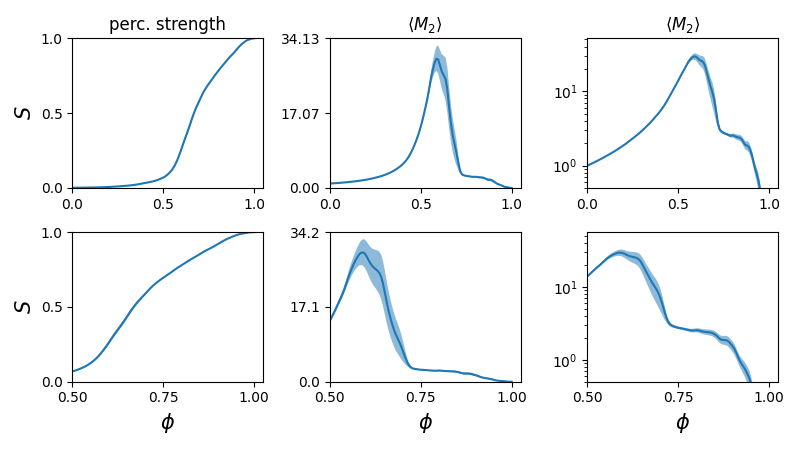
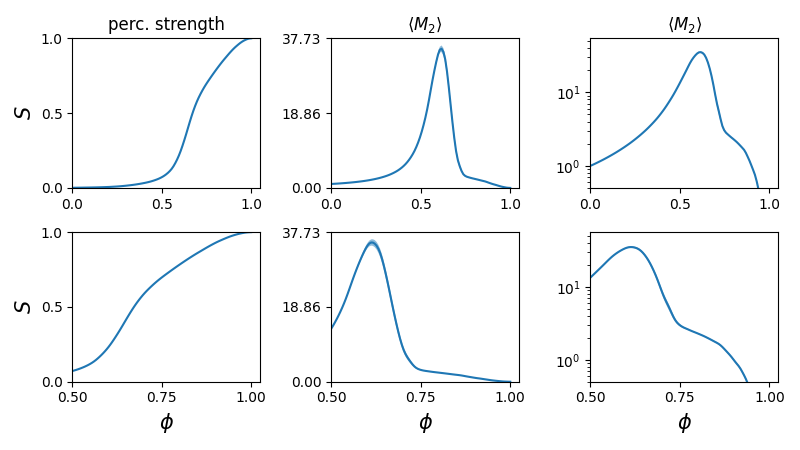
Upload percolation results for 1000 runs

diff --git a/Project/community_detection.py b/Project/community_detection.py
@@ -1,16 +1,16 @@
+import os
+
 import geopandas
 import igraph as ig
 import matplotlib.pyplot as plt
 import networkx as nx
 import networkx.algorithms.community as nx_comm
 import numpy as np
-import os
 import pandas as pd
 import seaborn as sns
 from contextily import add_basemap
 from igraph import Graph
 from networkx import MultiGraph
-from pprint import pprint
 
 
 def nx_com_to_pajek_file(G, comm_list, filepath):
@@ -36,11 +36,39 @@ def ig_com_to_pajek_file(comm_list, filepath):
 data_folder = "data"
 out_folder = "output"
 addition = 0.005
+tables_dir = os.path.join(out_folder, "tables")
+if not os.path.exists(tables_dir):
+    os.makedirs(tables_dir)
 
 g = Graph.Load(os.path.join(data_folder, "bus-bcn.net"), format="pajek")
+nx_g = nx.read_pajek(os.path.join(data_folder, "bus-bcn.net"))
+assert nx.number_of_selfloops(nx_g) == 0
 net_data = geopandas.read_file(os.path.join(data_folder, "raw", "parades_linia.json"))
 crs = net_data.crs.to_string()
 del net_data
+
+# Betweenness
+betweenness = nx.betweenness_centrality(nx_g, normalized=True, weight="weight")
+stops = list(betweenness.keys())
+stop_betweenness = list(betweenness.values())
+top_10 = np.argsort(stop_betweenness)[::-1][:10]
+print("Top-10 betweenness:")
+for i in top_10:
+    print(f"{stops[i]}: {stop_betweenness[i]}")
+
+df_betweenness = pd.DataFrame({"Bus stop": np.array(stops)[top_10], "Betweeness": np.array(stop_betweenness)[top_10]})
+df_betweenness.set_index("Bus stop", inplace=True)
+outfile = os.path.join(tables_dir, "betweenness.tex")
+df_betweenness.style.to_latex(
+    outfile,
+    position="!htbp",
+    position_float="centering",
+    hrules=True,
+    label="tab:betweenness",
+    caption="Top-10 bus stop betweenness.",
+)
+
+# Community detection
 comms = g.community_infomap(edge_weights="weight")
 infomap_modularity = comms.modularity
 infomap_membership = comms.membership
@@ -58,8 +86,6 @@ plt.savefig(os.path.join(out_folder, "infomap_community.png"))
 plt.show()
 print(f"Number of communities detected by Infomap: {len(comms)}")
 
-nx_g = nx.read_pajek(os.path.join(data_folder, "bus-bcn.net"))
-assert nx.number_of_selfloops(nx_g) == 0
 comms = nx_comm.louvain_communities(MultiGraph(nx_g), resolution=0.3, seed=2022)
 louvain_modularity = nx_comm.modularity(nx_g, comms)
 
@@ -77,7 +103,6 @@ for i in range(n_comm):
     nodes.extend(list(comms[i]))
     colors.extend([color_palette[i]] * len(comms[i]))
 
-# popuplar_stops = [x[0] for x in sorted(nx_g.degree(), key=lambda x: -x[1])[:10]]
 fig, ax = plt.subplots(figsize=(10, 10))
 nx.draw_networkx_nodes(
     nx_g,
@@ -152,9 +177,6 @@ modularities = pd.DataFrame(
     {"algorithm": ["Infomap", "Louvain"], "modulairty": [infomap_modularity, louvain_modularity]}
 )
 modularities.set_index("algorithm", inplace=True)
-tables_dir = os.path.join(out_folder, "tables")
-if not os.path.exists(tables_dir):
-    os.makedirs(tables_dir)
 outfile = os.path.join(tables_dir, "modularity.tex")
 s = modularities.style.highlight_max(props="textbf:--rwrap")
 s.to_latex(
@@ -166,23 +188,3 @@ s.to_latex(
     caption="Network modularity using Infomap and Louvain algorithms.",
 )
 
-# Betweenness
-betweenness = nx.betweenness_centrality(nx_g, normalized=True, weight="weight")
-stops = list(betweenness.keys())
-stop_betweenness = list(betweenness.values())
-top_10 = np.argsort(stop_betweenness)[::-1][:10]
-print("Top-10 betweenness:")
-for i in top_10:
-    print(f"{stops[i]}: {stop_betweenness[i]}")
-
-df_betweenness = pd.DataFrame({"Bus stop": np.array(stops)[top_10], "Betweeness": np.array(stop_betweenness)[top_10]})
-df_betweenness.set_index("Bus stop", inplace=True)
-outfile = os.path.join(tables_dir, "betweenness.tex")
-df_betweenness.style.to_latex(
-    outfile,
-    position="!htbp",
-    position_float="centering",
-    hrules=True,
-    label="tab:betweenness",
-    caption="Top-10 bus stop betweenness.",
-)

diff --git a/Project/percolation.py b/Project/percolation.py
@@ -117,8 +117,8 @@ ax.fill_between(
 
 ax.set_ylim(ymin=0.0, ymax=1.0)
 ax.set_xlim(xmin=0.0, xmax=1.0)
-# ax.set_xticks(np.linspace(np.min(ps), np.max(ps), num=3), fontsize=12)
-# ax.set_yticks(np.linspace(0, ax.get_ylim()[1], num=3), fontsize=12)
+ax.set_xticks(np.linspace(np.min(ps), np.max(ps), num=11), fontsize=12)
+ax.set_yticks(np.linspace(0, ax.get_ylim()[1], num=11), fontsize=12)
 ax.set_ylabel(r"size of giant component $S$", fontsize=15)
 ax.set_xlabel(r"occupation probability $\phi$", fontsize=15)
 
